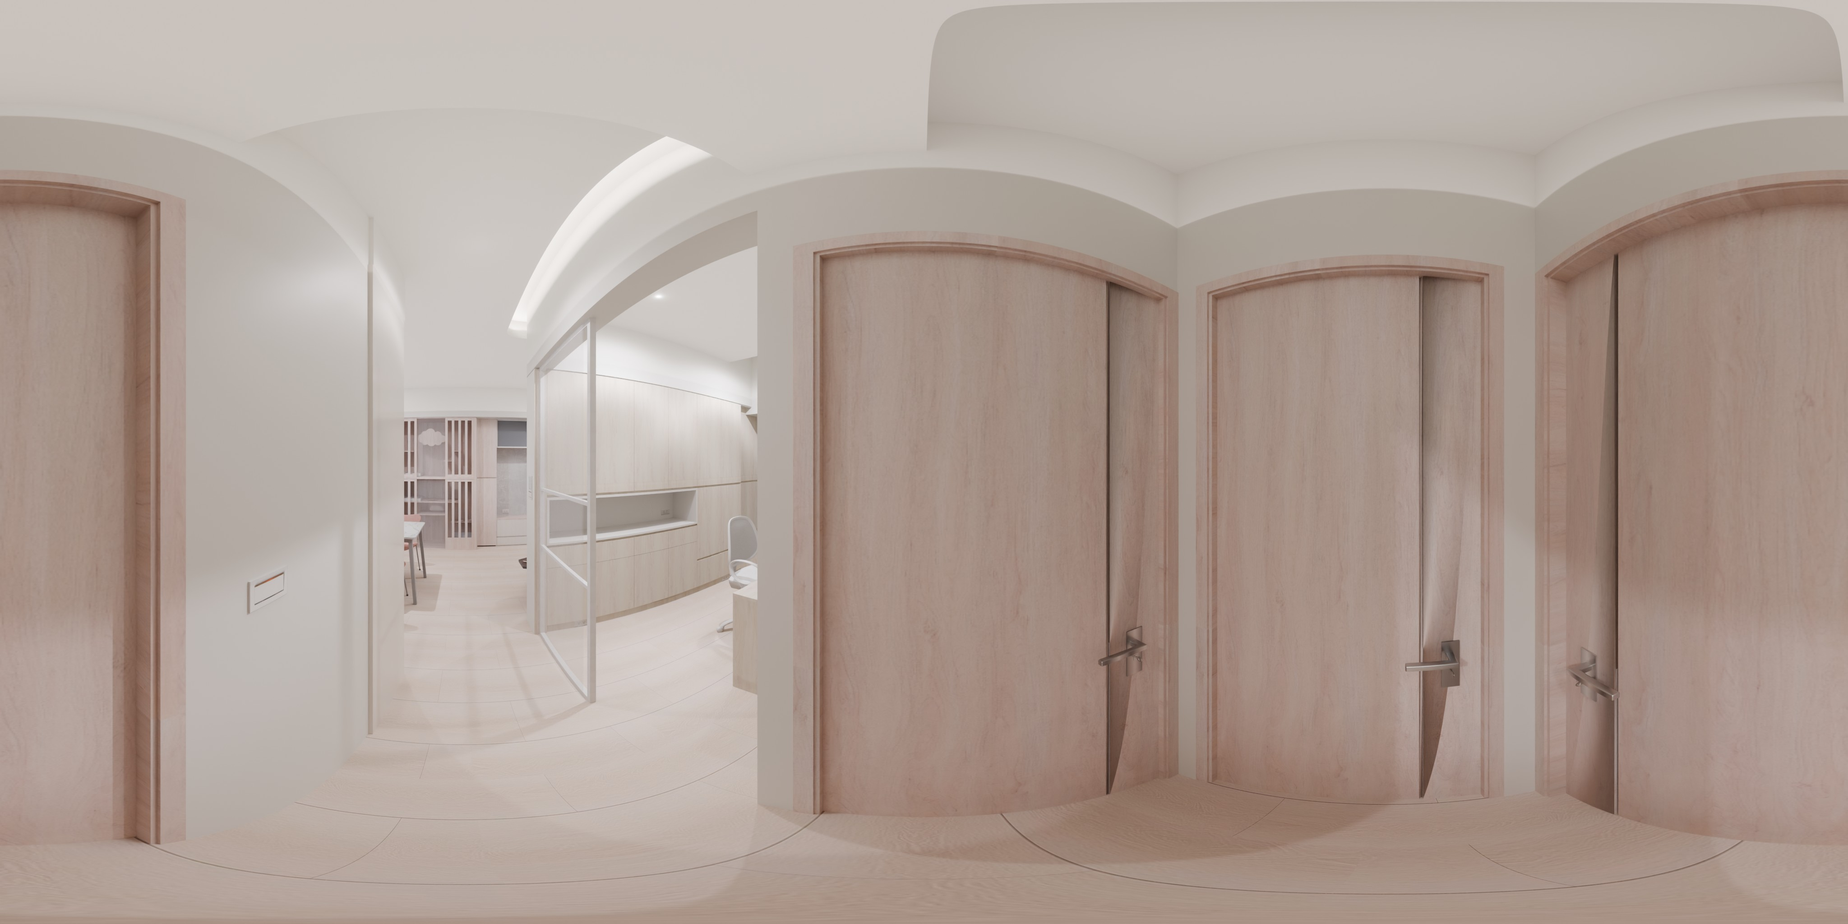
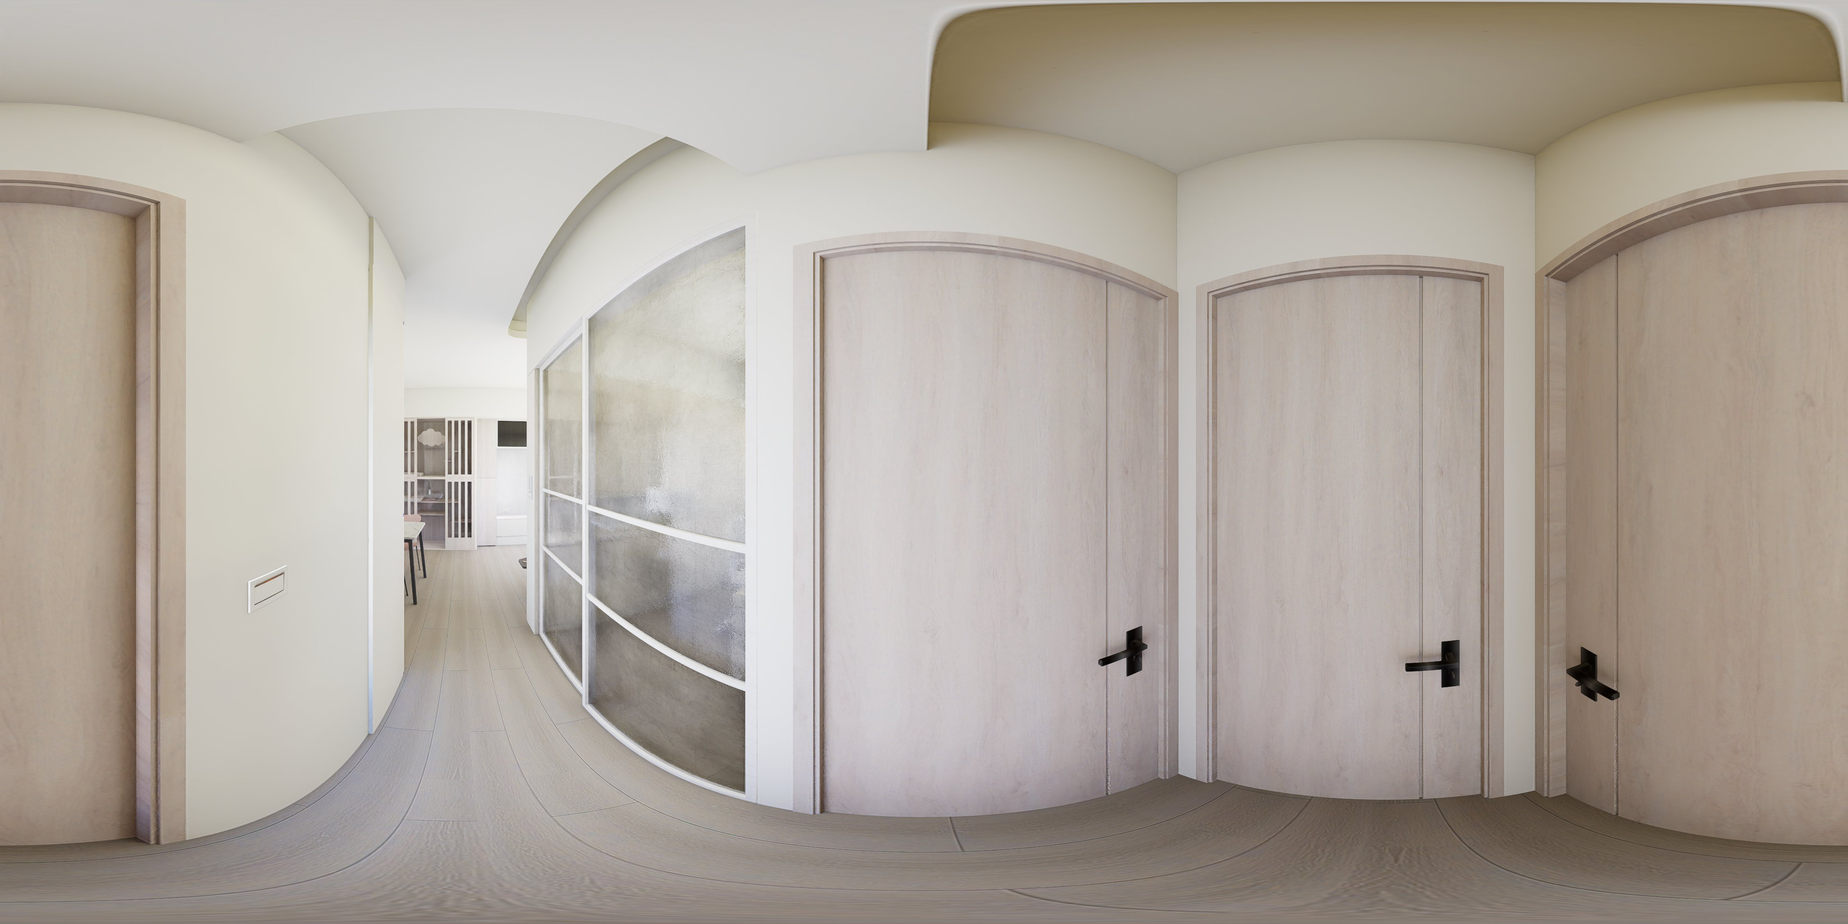
四案環景換成 D5 日光版（23 張）
- 女王萬歲、新杜拜、崇德仁美、市政一號院的 360° 環景改用 D5 重渲（下午兩點日光，無人工燈）
- 圖片網址加 ?v=d5，避免讀到快取的舊圖
- 分享預覽圖 og.jpg 用同一站、同一角度重做

diff --git a/new-dubai/index.html b/new-dubai/index.html
@@ -115,7 +115,7 @@ body { background: var(--bg); color: var(--ink); font-family: var(--f-ui); font-
 <script src="https://cdnjs.cloudflare.com/ajax/libs/pannellum/2.5.6/pannellum.js"></script>
 <script>
 const ROOMS = [{"id": "VR1", "name": "玄關", "x": 14.84, "y": 87.63}, {"id": "VR2", "name": "餐廚", "x": 40.11, "y": 61.83}, {"id": "VR3", "name": "客廳", "x": 19.23, "y": 32.8}, {"id": "VR4", "name": "走道", "x": 64.29, "y": 45.7}, {"id": "VR5", "name": "書房", "x": 45.05, "y": 28.49}, {"id": "VR6", "name": "主臥", "x": 74.18, "y": 33.87}, {"id": "VR7", "name": "女兒房", "x": 68.68, "y": 65.05}];
-const SCENES = {"VR1": {"title": "玄關", "panorama": "pano/VR1.jpg", "yaw": 0, "pitch": -5, "hfov": 105, "northOffset": 0, "hotSpots": [{"pitch": -18, "yaw": 2, "type": "scene", "sceneId": "VR2", "targetYaw": "sameAzimuth", "cssClass": "gis-hot", "createTooltipFunc": "HOT", "createTooltipArgs": "餐廚"}]}, "VR2": {"title": "餐廚", "panorama": "pano/VR2.jpg", "yaw": -40, "pitch": -5, "hfov": 105, "northOffset": 0, "hotSpots": [{"pitch": -20, "yaw": -105, "type": "scene", "sceneId": "VR1", "targetYaw": "sameAzimuth", "cssClass": "gis-hot", "createTooltipFunc": "HOT", "createTooltipArgs": "玄關"}, {"pitch": -10, "yaw": -32, "type": "scene", "sceneId": "VR3", "targetYaw": "sameAzimuth", "cssClass": "gis-hot", "createTooltipFunc": "HOT", "createTooltipArgs": "客廳"}, {"pitch": -12, "yaw": 12, "type": "scene", "sceneId": "VR4", "targetYaw": "sameAzimuth", "cssClass": "gis-hot", "createTooltipFunc": "HOT", "createTooltipArgs": "走道"}]}, "VR3": {"title": "客廳", "panorama": "pano/VR3.jpg", "yaw": -60, "pitch": -5, "hfov": 105, "northOffset": 0, "hotSpots": [{"pitch": -14, "yaw": 145, "type": "scene", "sceneId": "VR2", "targetYaw": "sameAzimuth", "cssClass": "gis-hot", "createTooltipFunc": "HOT", "createTooltipArgs": "餐廚"}, {"pitch": -12, "yaw": 112, "type": "scene", "sceneId": "VR4", "targetYaw": "sameAzimuth", "cssClass": "gis-hot", "createTooltipFunc": "HOT", "createTooltipArgs": "走道"}]}, "VR4": {"title": "走道", "panorama": "pano/VR4.jpg", "yaw": -60, "pitch": -5, "hfov": 105, "northOffset": 0, "hotSpots": [{"pitch": -6, "yaw": 10, "type": "scene", "sceneId": "VR6", "targetYaw": "sameAzimuth", "cssClass": "gis-hot", "createTooltipFunc": "HOT", "createTooltipArgs": "主臥"}, {"pitch": -6, "yaw": 150, "type": "scene", "sceneId": "VR7", "targetYaw": "sameAzimuth", "cssClass": "gis-hot", "createTooltipFunc": "HOT", "createTooltipArgs": "女兒房"}, {"pitch": -10, "yaw": -50, "type": "scene", "sceneId": "VR5", "targetYaw": "sameAzimuth", "cssClass": "gis-hot", "createTooltipFunc": "HOT", "createTooltipArgs": "書房"}, {"pitch": -6, "yaw": -84, "type": "scene", "sceneId": "VR3", "targetYaw": "sameAzimuth", "cssClass": "gis-hot", "createTooltipFunc": "HOT", "createTooltipArgs": "客廳"}, {"pitch": -18, "yaw": -100, "type": "scene", "sceneId": "VR2", "targetYaw": "sameAzimuth", "cssClass": "gis-hot", "createTooltipFunc": "HOT", "createTooltipArgs": "餐廚"}]}, "VR5": {"title": "書房", "panorama": "pano/VR5.jpg", "yaw": 30, "pitch": -5, "hfov": 105, "northOffset": 0, "hotSpots": [{"pitch": -12, "yaw": 165, "type": "scene", "sceneId": "VR4", "targetYaw": "sameAzimuth", "cssClass": "gis-hot", "createTooltipFunc": "HOT", "createTooltipArgs": "走道"}]}, "VR6": {"title": "主臥", "panorama": "pano/VR6.jpg", "yaw": 30, "pitch": -5, "hfov": 105, "northOffset": 0, "hotSpots": [{"pitch": -6, "yaw": -132, "type": "scene", "sceneId": "VR4", "targetYaw": "sameAzimuth", "cssClass": "gis-hot", "createTooltipFunc": "HOT", "createTooltipArgs": "走道"}]}, "VR7": {"title": "女兒房", "panorama": "pano/VR7.jpg", "yaw": 100, "pitch": -5, "hfov": 105, "northOffset": 0, "hotSpots": [{"pitch": -6, "yaw": -10, "type": "scene", "sceneId": "VR4", "targetYaw": "sameAzimuth", "cssClass": "gis-hot", "createTooltipFunc": "HOT", "createTooltipArgs": "走道"}]}};
+const SCENES = {"VR1": {"title": "玄關", "panorama": "pano/VR1.jpg?v=d5", "yaw": 0, "pitch": -5, "hfov": 105, "northOffset": 0, "hotSpots": [{"pitch": -18, "yaw": 2, "type": "scene", "sceneId": "VR2", "targetYaw": "sameAzimuth", "cssClass": "gis-hot", "createTooltipFunc": "HOT", "createTooltipArgs": "餐廚"}]}, "VR2": {"title": "餐廚", "panorama": "pano/VR2.jpg?v=d5", "yaw": -40, "pitch": -5, "hfov": 105, "northOffset": 0, "hotSpots": [{"pitch": -20, "yaw": -105, "type": "scene", "sceneId": "VR1", "targetYaw": "sameAzimuth", "cssClass": "gis-hot", "createTooltipFunc": "HOT", "createTooltipArgs": "玄關"}, {"pitch": -10, "yaw": -32, "type": "scene", "sceneId": "VR3", "targetYaw": "sameAzimuth", "cssClass": "gis-hot", "createTooltipFunc": "HOT", "createTooltipArgs": "客廳"}, {"pitch": -12, "yaw": 12, "type": "scene", "sceneId": "VR4", "targetYaw": "sameAzimuth", "cssClass": "gis-hot", "createTooltipFunc": "HOT", "createTooltipArgs": "走道"}]}, "VR3": {"title": "客廳", "panorama": "pano/VR3.jpg?v=d5", "yaw": -60, "pitch": -5, "hfov": 105, "northOffset": 0, "hotSpots": [{"pitch": -14, "yaw": 145, "type": "scene", "sceneId": "VR2", "targetYaw": "sameAzimuth", "cssClass": "gis-hot", "createTooltipFunc": "HOT", "createTooltipArgs": "餐廚"}, {"pitch": -12, "yaw": 112, "type": "scene", "sceneId": "VR4", "targetYaw": "sameAzimuth", "cssClass": "gis-hot", "createTooltipFunc": "HOT", "createTooltipArgs": "走道"}]}, "VR4": {"title": "走道", "panorama": "pano/VR4.jpg?v=d5", "yaw": -60, "pitch": -5, "hfov": 105, "northOffset": 0, "hotSpots": [{"pitch": -6, "yaw": 10, "type": "scene", "sceneId": "VR6", "targetYaw": "sameAzimuth", "cssClass": "gis-hot", "createTooltipFunc": "HOT", "createTooltipArgs": "主臥"}, {"pitch": -6, "yaw": 150, "type": "scene", "sceneId": "VR7", "targetYaw": "sameAzimuth", "cssClass": "gis-hot", "createTooltipFunc": "HOT", "createTooltipArgs": "女兒房"}, {"pitch": -10, "yaw": -50, "type": "scene", "sceneId": "VR5", "targetYaw": "sameAzimuth", "cssClass": "gis-hot", "createTooltipFunc": "HOT", "createTooltipArgs": "書房"}, {"pitch": -6, "yaw": -84, "type": "scene", "sceneId": "VR3", "targetYaw": "sameAzimuth", "cssClass": "gis-hot", "createTooltipFunc": "HOT", "createTooltipArgs": "客廳"}, {"pitch": -18, "yaw": -100, "type": "scene", "sceneId": "VR2", "targetYaw": "sameAzimuth", "cssClass": "gis-hot", "createTooltipFunc": "HOT", "createTooltipArgs": "餐廚"}]}, "VR5": {"title": "書房", "panorama": "pano/VR5.jpg?v=d5", "yaw": 30, "pitch": -5, "hfov": 105, "northOffset": 0, "hotSpots": [{"pitch": -12, "yaw": 165, "type": "scene", "sceneId": "VR4", "targetYaw": "sameAzimuth", "cssClass": "gis-hot", "createTooltipFunc": "HOT", "createTooltipArgs": "走道"}]}, "VR6": {"title": "主臥", "panorama": "pano/VR6.jpg?v=d5", "yaw": 30, "pitch": -5, "hfov": 105, "northOffset": 0, "hotSpots": [{"pitch": -6, "yaw": -132, "type": "scene", "sceneId": "VR4", "targetYaw": "sameAzimuth", "cssClass": "gis-hot", "createTooltipFunc": "HOT", "createTooltipArgs": "走道"}]}, "VR7": {"title": "女兒房", "panorama": "pano/VR7.jpg?v=d5", "yaw": 100, "pitch": -5, "hfov": 105, "northOffset": 0, "hotSpots": [{"pitch": -6, "yaw": -10, "type": "scene", "sceneId": "VR4", "targetYaw": "sameAzimuth", "cssClass": "gis-hot", "createTooltipFunc": "HOT", "createTooltipArgs": "走道"}]}};
 function HOT(div, name) {
   const p = document.createElement('span');
   p.className = 'pill';

diff --git a/queen-wansui/index.html b/queen-wansui/index.html
@@ -115,7 +115,7 @@ body { background: var(--bg); color: var(--ink); font-family: var(--f-ui); font-
 <script src="https://cdnjs.cloudflare.com/ajax/libs/pannellum/2.5.6/pannellum.js"></script>
 <script>
 const ROOMS = [{"id": "VR1", "name": "玄關", "x": 86.82, "y": 84.68}, {"id": "VR2", "name": "餐廚", "x": 60.17, "y": 69.36}, {"id": "VR3", "name": "客廳", "x": 69.31, "y": 45.96}, {"id": "VR6", "name": "走道", "x": 45.7, "y": 42.98}, {"id": "VR4", "name": "主臥", "x": 35.03, "y": 37.02}, {"id": "VR5", "name": "次臥", "x": 31.23, "y": 68.51}];
-const SCENES = {"VR1": {"title": "玄關", "panorama": "pano/VR1.jpg", "yaw": -20, "pitch": -5, "hfov": 105, "northOffset": 0, "hotSpots": [{"pitch": -23.7, "yaw": -64.0, "type": "scene", "sceneId": "VR2", "targetYaw": "sameAzimuth", "cssClass": "gis-hot", "createTooltipFunc": "HOT", "createTooltipArgs": "餐廚"}]}, "VR2": {"title": "餐廚", "panorama": "pano/VR2.jpg", "yaw": 10, "pitch": -5, "hfov": 105, "northOffset": 0, "hotSpots": [{"pitch": 0.0, "yaw": 119.8, "type": "scene", "sceneId": "VR1", "targetYaw": "sameAzimuth", "cssClass": "gis-hot", "createTooltipFunc": "HOT", "createTooltipArgs": "玄關"}, {"pitch": -14.4, "yaw": 8.4, "type": "scene", "sceneId": "VR3", "targetYaw": "sameAzimuth", "cssClass": "gis-hot", "createTooltipFunc": "HOT", "createTooltipArgs": "客廳"}]}, "VR3": {"title": "客廳", "panorama": "pano/VR3.jpg", "yaw": 20, "pitch": -5, "hfov": 105, "northOffset": 0, "hotSpots": [{"pitch": -15.4, "yaw": -151.9, "type": "scene", "sceneId": "VR2", "targetYaw": "sameAzimuth", "cssClass": "gis-hot", "createTooltipFunc": "HOT", "createTooltipArgs": "餐廚"}, {"pitch": -12.1, "yaw": -93.1, "type": "scene", "sceneId": "VR6", "targetYaw": "sameAzimuth", "cssClass": "gis-hot", "createTooltipFunc": "HOT", "createTooltipArgs": "走道"}]}, "VR6": {"title": "走道", "panorama": "pano/VR6.jpg", "yaw": -15, "pitch": -5, "hfov": 105, "northOffset": 0, "hotSpots": [{"pitch": -16.7, "yaw": 99.9, "type": "scene", "sceneId": "VR3", "targetYaw": "sameAzimuth", "cssClass": "gis-hot", "createTooltipFunc": "HOT", "createTooltipArgs": "客廳"}, {"pitch": -12.7, "yaw": -13.0, "type": "scene", "sceneId": "VR4", "targetYaw": "sameAzimuth", "cssClass": "gis-hot", "createTooltipFunc": "HOT", "createTooltipArgs": "主臥"}, {"pitch": -17.1, "yaw": -162.1, "type": "scene", "sceneId": "VR5", "targetYaw": "sameAzimuth", "cssClass": "gis-hot", "createTooltipFunc": "HOT", "createTooltipArgs": "次臥"}]}, "VR4": {"title": "主臥", "panorama": "pano/VR4.jpg", "yaw": -110, "pitch": -5, "hfov": 105, "northOffset": 0, "hotSpots": [{"pitch": -22.4, "yaw": 15.9, "type": "scene", "sceneId": "VR6", "targetYaw": "sameAzimuth", "cssClass": "gis-hot", "createTooltipFunc": "HOT", "createTooltipArgs": "走道"}]}, "VR5": {"title": "次臥", "panorama": "pano/VR5.jpg", "yaw": -100, "pitch": -5, "hfov": 105, "northOffset": 0, "hotSpots": [{"pitch": -21.0, "yaw": 26.6, "type": "scene", "sceneId": "VR6", "targetYaw": "sameAzimuth", "cssClass": "gis-hot", "createTooltipFunc": "HOT", "createTooltipArgs": "走道"}]}};
+const SCENES = {"VR1": {"title": "玄關", "panorama": "pano/VR1.jpg?v=d5", "yaw": -20, "pitch": -5, "hfov": 105, "northOffset": 0, "hotSpots": [{"pitch": -23.7, "yaw": -64.0, "type": "scene", "sceneId": "VR2", "targetYaw": "sameAzimuth", "cssClass": "gis-hot", "createTooltipFunc": "HOT", "createTooltipArgs": "餐廚"}]}, "VR2": {"title": "餐廚", "panorama": "pano/VR2.jpg?v=d5", "yaw": 10, "pitch": -5, "hfov": 105, "northOffset": 0, "hotSpots": [{"pitch": 0.0, "yaw": 119.8, "type": "scene", "sceneId": "VR1", "targetYaw": "sameAzimuth", "cssClass": "gis-hot", "createTooltipFunc": "HOT", "createTooltipArgs": "玄關"}, {"pitch": -14.4, "yaw": 8.4, "type": "scene", "sceneId": "VR3", "targetYaw": "sameAzimuth", "cssClass": "gis-hot", "createTooltipFunc": "HOT", "createTooltipArgs": "客廳"}]}, "VR3": {"title": "客廳", "panorama": "pano/VR3.jpg?v=d5", "yaw": 20, "pitch": -5, "hfov": 105, "northOffset": 0, "hotSpots": [{"pitch": -15.4, "yaw": -151.9, "type": "scene", "sceneId": "VR2", "targetYaw": "sameAzimuth", "cssClass": "gis-hot", "createTooltipFunc": "HOT", "createTooltipArgs": "餐廚"}, {"pitch": -12.1, "yaw": -93.1, "type": "scene", "sceneId": "VR6", "targetYaw": "sameAzimuth", "cssClass": "gis-hot", "createTooltipFunc": "HOT", "createTooltipArgs": "走道"}]}, "VR6": {"title": "走道", "panorama": "pano/VR6.jpg?v=d5", "yaw": -15, "pitch": -5, "hfov": 105, "northOffset": 0, "hotSpots": [{"pitch": -16.7, "yaw": 99.9, "type": "scene", "sceneId": "VR3", "targetYaw": "sameAzimuth", "cssClass": "gis-hot", "createTooltipFunc": "HOT", "createTooltipArgs": "客廳"}, {"pitch": -12.7, "yaw": -13.0, "type": "scene", "sceneId": "VR4", "targetYaw": "sameAzimuth", "cssClass": "gis-hot", "createTooltipFunc": "HOT", "createTooltipArgs": "主臥"}, {"pitch": -17.1, "yaw": -162.1, "type": "scene", "sceneId": "VR5", "targetYaw": "sameAzimuth", "cssClass": "gis-hot", "createTooltipFunc": "HOT", "createTooltipArgs": "次臥"}]}, "VR4": {"title": "主臥", "panorama": "pano/VR4.jpg?v=d5", "yaw": -110, "pitch": -5, "hfov": 105, "northOffset": 0, "hotSpots": [{"pitch": -22.4, "yaw": 15.9, "type": "scene", "sceneId": "VR6", "targetYaw": "sameAzimuth", "cssClass": "gis-hot", "createTooltipFunc": "HOT", "createTooltipArgs": "走道"}]}, "VR5": {"title": "次臥", "panorama": "pano/VR5.jpg?v=d5", "yaw": -100, "pitch": -5, "hfov": 105, "northOffset": 0, "hotSpots": [{"pitch": -21.0, "yaw": 26.6, "type": "scene", "sceneId": "VR6", "targetYaw": "sameAzimuth", "cssClass": "gis-hot", "createTooltipFunc": "HOT", "createTooltipArgs": "走道"}]}};
 function HOT(div, name) {
   const p = document.createElement('span');
   p.className = 'pill';

diff --git a/chongde/index.html b/chongde/index.html
@@ -115,7 +115,7 @@ body { background: var(--bg); color: var(--ink); font-family: var(--f-ui); font-
 <script src="https://cdnjs.cloudflare.com/ajax/libs/pannellum/2.5.6/pannellum.js"></script>
 <script>
 const ROOMS = [{"id": "VR1", "name": "玄關", "x": 43.33, "y": 22.01}, {"id": "VR2", "name": "客廳", "x": 80.0, "y": 13.88}, {"id": "VR3", "name": "餐廚", "x": 34.44, "y": 44.5}, {"id": "VR4", "name": "書房", "x": 67.78, "y": 51.2}, {"id": "VR5", "name": "主臥", "x": 63.33, "y": 69.86}];
-const SCENES = {"VR1": {"title": "玄關", "panorama": "pano/VR1.jpg", "yaw": 70, "pitch": -5, "hfov": 105, "northOffset": 0, "hotSpots": [{"pitch": -12, "yaw": 70, "type": "scene", "sceneId": "VR2", "targetYaw": "sameAzimuth", "cssClass": "gis-hot", "createTooltipFunc": "HOT", "createTooltipArgs": "客廳"}, {"pitch": -12, "yaw": -160, "type": "scene", "sceneId": "VR3", "targetYaw": "sameAzimuth", "cssClass": "gis-hot", "createTooltipFunc": "HOT", "createTooltipArgs": "餐廚"}]}, "VR2": {"title": "客廳", "panorama": "pano/VR2.jpg", "yaw": 0, "pitch": -5, "hfov": 105, "northOffset": 0, "hotSpots": [{"pitch": -14, "yaw": -98, "type": "scene", "sceneId": "VR1", "targetYaw": "sameAzimuth", "cssClass": "gis-hot", "createTooltipFunc": "HOT", "createTooltipArgs": "玄關"}, {"pitch": -5, "yaw": -135, "type": "scene", "sceneId": "VR3", "targetYaw": "sameAzimuth", "cssClass": "gis-hot", "createTooltipFunc": "HOT", "createTooltipArgs": "餐廚"}]}, "VR3": {"title": "餐廚", "panorama": "pano/VR3.jpg", "yaw": -160, "pitch": -5, "hfov": 105, "northOffset": 0, "hotSpots": [{"pitch": -14, "yaw": 25, "type": "scene", "sceneId": "VR1", "targetYaw": "sameAzimuth", "cssClass": "gis-hot", "createTooltipFunc": "HOT", "createTooltipArgs": "玄關"}, {"pitch": -6, "yaw": 55, "type": "scene", "sceneId": "VR2", "targetYaw": "sameAzimuth", "cssClass": "gis-hot", "createTooltipFunc": "HOT", "createTooltipArgs": "客廳"}, {"pitch": -10, "yaw": 100, "type": "scene", "sceneId": "VR4", "targetYaw": "sameAzimuth", "cssClass": "gis-hot", "createTooltipFunc": "HOT", "createTooltipArgs": "書房"}, {"pitch": -6, "yaw": 140, "type": "scene", "sceneId": "VR5", "targetYaw": "sameAzimuth", "cssClass": "gis-hot", "createTooltipFunc": "HOT", "createTooltipArgs": "主臥"}]}, "VR4": {"title": "書房", "panorama": "pano/VR4.jpg", "yaw": 60, "pitch": -5, "hfov": 105, "northOffset": 0, "hotSpots": [{"pitch": -10, "yaw": -80, "type": "scene", "sceneId": "VR3", "targetYaw": "sameAzimuth", "cssClass": "gis-hot", "createTooltipFunc": "HOT", "createTooltipArgs": "餐廚"}]}, "VR5": {"title": "主臥", "panorama": "pano/VR5.jpg", "yaw": 180, "pitch": -5, "hfov": 105, "northOffset": 0, "hotSpots": [{"pitch": -6, "yaw": -75, "type": "scene", "sceneId": "VR3", "targetYaw": "sameAzimuth", "cssClass": "gis-hot", "createTooltipFunc": "HOT", "createTooltipArgs": "餐廚"}]}};
+const SCENES = {"VR1": {"title": "玄關", "panorama": "pano/VR1.jpg?v=d5", "yaw": 70, "pitch": -5, "hfov": 105, "northOffset": 0, "hotSpots": [{"pitch": -12, "yaw": 70, "type": "scene", "sceneId": "VR2", "targetYaw": "sameAzimuth", "cssClass": "gis-hot", "createTooltipFunc": "HOT", "createTooltipArgs": "客廳"}, {"pitch": -12, "yaw": -160, "type": "scene", "sceneId": "VR3", "targetYaw": "sameAzimuth", "cssClass": "gis-hot", "createTooltipFunc": "HOT", "createTooltipArgs": "餐廚"}]}, "VR2": {"title": "客廳", "panorama": "pano/VR2.jpg?v=d5", "yaw": 0, "pitch": -5, "hfov": 105, "northOffset": 0, "hotSpots": [{"pitch": -14, "yaw": -98, "type": "scene", "sceneId": "VR1", "targetYaw": "sameAzimuth", "cssClass": "gis-hot", "createTooltipFunc": "HOT", "createTooltipArgs": "玄關"}, {"pitch": -5, "yaw": -135, "type": "scene", "sceneId": "VR3", "targetYaw": "sameAzimuth", "cssClass": "gis-hot", "createTooltipFunc": "HOT", "createTooltipArgs": "餐廚"}]}, "VR3": {"title": "餐廚", "panorama": "pano/VR3.jpg?v=d5", "yaw": -160, "pitch": -5, "hfov": 105, "northOffset": 0, "hotSpots": [{"pitch": -14, "yaw": 25, "type": "scene", "sceneId": "VR1", "targetYaw": "sameAzimuth", "cssClass": "gis-hot", "createTooltipFunc": "HOT", "createTooltipArgs": "玄關"}, {"pitch": -6, "yaw": 55, "type": "scene", "sceneId": "VR2", "targetYaw": "sameAzimuth", "cssClass": "gis-hot", "createTooltipFunc": "HOT", "createTooltipArgs": "客廳"}, {"pitch": -10, "yaw": 100, "type": "scene", "sceneId": "VR4", "targetYaw": "sameAzimuth", "cssClass": "gis-hot", "createTooltipFunc": "HOT", "createTooltipArgs": "書房"}, {"pitch": -6, "yaw": 140, "type": "scene", "sceneId": "VR5", "targetYaw": "sameAzimuth", "cssClass": "gis-hot", "createTooltipFunc": "HOT", "createTooltipArgs": "主臥"}]}, "VR4": {"title": "書房", "panorama": "pano/VR4.jpg?v=d5", "yaw": 60, "pitch": -5, "hfov": 105, "northOffset": 0, "hotSpots": [{"pitch": -10, "yaw": -80, "type": "scene", "sceneId": "VR3", "targetYaw": "sameAzimuth", "cssClass": "gis-hot", "createTooltipFunc": "HOT", "createTooltipArgs": "餐廚"}]}, "VR5": {"title": "主臥", "panorama": "pano/VR5.jpg?v=d5", "yaw": 180, "pitch": -5, "hfov": 105, "northOffset": 0, "hotSpots": [{"pitch": -6, "yaw": -75, "type": "scene", "sceneId": "VR3", "targetYaw": "sameAzimuth", "cssClass": "gis-hot", "createTooltipFunc": "HOT", "createTooltipArgs": "餐廚"}]}};
 function HOT(div, name) {
   const p = document.createElement('span');
   p.className = 'pill';

diff --git a/shizheng/index.html b/shizheng/index.html
@@ -115,7 +115,7 @@ body { background: var(--bg); color: var(--ink); font-family: var(--f-ui); font-
 <script src="https://cdnjs.cloudflare.com/ajax/libs/pannellum/2.5.6/pannellum.js"></script>
 <script>
 const ROOMS = [{"id": "VR1", "name": "玄關", "x": 85.59, "y": 86.67}, {"id": "VR2", "name": "客廳", "x": 67.57, "y": 72.0}, {"id": "VR3", "name": "餐廚", "x": 40.54, "y": 73.33}, {"id": "VR4", "name": "主臥", "x": 26.13, "y": 38.67}, {"id": "VR5", "name": "小孩房", "x": 81.08, "y": 32.0}];
-const SCENES = {"VR1": {"title": "玄關", "panorama": "pano/VR1.jpg", "yaw": -75, "pitch": -5, "hfov": 105, "northOffset": 0, "hotSpots": [{"pitch": -14, "yaw": -72, "type": "scene", "sceneId": "VR2", "targetYaw": "sameAzimuth", "cssClass": "gis-hot", "createTooltipFunc": "HOT", "createTooltipArgs": "客廳"}]}, "VR2": {"title": "客廳", "panorama": "pano/VR2.jpg", "yaw": -80, "pitch": -5, "hfov": 105, "northOffset": 0, "hotSpots": [{"pitch": -14, "yaw": 119, "type": "scene", "sceneId": "VR1", "targetYaw": "sameAzimuth", "cssClass": "gis-hot", "createTooltipFunc": "HOT", "createTooltipArgs": "玄關"}, {"pitch": -10, "yaw": -88, "type": "scene", "sceneId": "VR3", "targetYaw": "sameAzimuth", "cssClass": "gis-hot", "createTooltipFunc": "HOT", "createTooltipArgs": "餐廚"}, {"pitch": -10, "yaw": 12, "type": "scene", "sceneId": "VR5", "targetYaw": "sameAzimuth", "cssClass": "gis-hot", "createTooltipFunc": "HOT", "createTooltipArgs": "小孩房"}]}, "VR3": {"title": "餐廚", "panorama": "pano/VR3.jpg", "yaw": -110, "pitch": -5, "hfov": 105, "northOffset": 0, "hotSpots": [{"pitch": -12, "yaw": 88, "type": "scene", "sceneId": "VR2", "targetYaw": "sameAzimuth", "cssClass": "gis-hot", "createTooltipFunc": "HOT", "createTooltipArgs": "客廳"}, {"pitch": -8, "yaw": -26, "type": "scene", "sceneId": "VR4", "targetYaw": "sameAzimuth", "cssClass": "gis-hot", "createTooltipFunc": "HOT", "createTooltipArgs": "主臥"}]}, "VR4": {"title": "主臥", "panorama": "pano/VR4.jpg", "yaw": -70, "pitch": -5, "hfov": 105, "northOffset": 0, "hotSpots": [{"pitch": -10, "yaw": 140, "type": "scene", "sceneId": "VR3", "targetYaw": "sameAzimuth", "cssClass": "gis-hot", "createTooltipFunc": "HOT", "createTooltipArgs": "餐廚"}]}, "VR5": {"title": "小孩房", "panorama": "pano/VR5.jpg", "yaw": 20, "pitch": -5, "hfov": 105, "northOffset": 0, "hotSpots": [{"pitch": -10, "yaw": -146, "type": "scene", "sceneId": "VR2", "targetYaw": "sameAzimuth", "cssClass": "gis-hot", "createTooltipFunc": "HOT", "createTooltipArgs": "客廳"}]}};
+const SCENES = {"VR1": {"title": "玄關", "panorama": "pano/VR1.jpg?v=d5", "yaw": -75, "pitch": -5, "hfov": 105, "northOffset": 0, "hotSpots": [{"pitch": -14, "yaw": -72, "type": "scene", "sceneId": "VR2", "targetYaw": "sameAzimuth", "cssClass": "gis-hot", "createTooltipFunc": "HOT", "createTooltipArgs": "客廳"}]}, "VR2": {"title": "客廳", "panorama": "pano/VR2.jpg?v=d5", "yaw": -80, "pitch": -5, "hfov": 105, "northOffset": 0, "hotSpots": [{"pitch": -14, "yaw": 119, "type": "scene", "sceneId": "VR1", "targetYaw": "sameAzimuth", "cssClass": "gis-hot", "createTooltipFunc": "HOT", "createTooltipArgs": "玄關"}, {"pitch": -10, "yaw": -88, "type": "scene", "sceneId": "VR3", "targetYaw": "sameAzimuth", "cssClass": "gis-hot", "createTooltipFunc": "HOT", "createTooltipArgs": "餐廚"}, {"pitch": -10, "yaw": 12, "type": "scene", "sceneId": "VR5", "targetYaw": "sameAzimuth", "cssClass": "gis-hot", "createTooltipFunc": "HOT", "createTooltipArgs": "小孩房"}]}, "VR3": {"title": "餐廚", "panorama": "pano/VR3.jpg?v=d5", "yaw": -110, "pitch": -5, "hfov": 105, "northOffset": 0, "hotSpots": [{"pitch": -12, "yaw": 88, "type": "scene", "sceneId": "VR2", "targetYaw": "sameAzimuth", "cssClass": "gis-hot", "createTooltipFunc": "HOT", "createTooltipArgs": "客廳"}, {"pitch": -8, "yaw": -26, "type": "scene", "sceneId": "VR4", "targetYaw": "sameAzimuth", "cssClass": "gis-hot", "createTooltipFunc": "HOT", "createTooltipArgs": "主臥"}]}, "VR4": {"title": "主臥", "panorama": "pano/VR4.jpg?v=d5", "yaw": -70, "pitch": -5, "hfov": 105, "northOffset": 0, "hotSpots": [{"pitch": -10, "yaw": 140, "type": "scene", "sceneId": "VR3", "targetYaw": "sameAzimuth", "cssClass": "gis-hot", "createTooltipFunc": "HOT", "createTooltipArgs": "餐廚"}]}, "VR5": {"title": "小孩房", "panorama": "pano/VR5.jpg?v=d5", "yaw": 20, "pitch": -5, "hfov": 105, "northOffset": 0, "hotSpots": [{"pitch": -10, "yaw": -146, "type": "scene", "sceneId": "VR2", "targetYaw": "sameAzimuth", "cssClass": "gis-hot", "createTooltipFunc": "HOT", "createTooltipArgs": "客廳"}]}};
 function HOT(div, name) {
   const p = document.createElement('span');
   p.className = 'pill';
